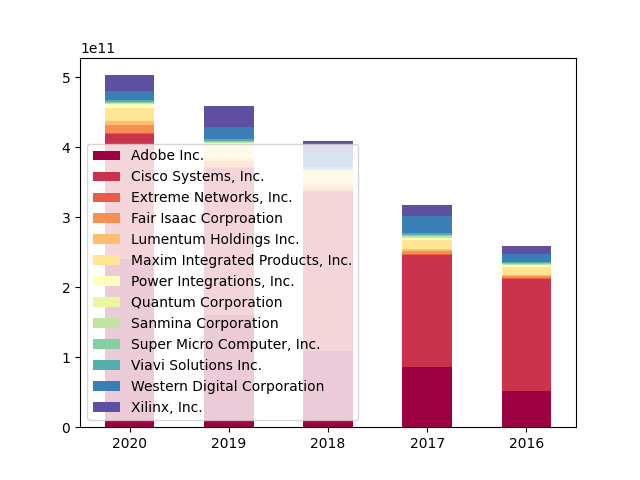
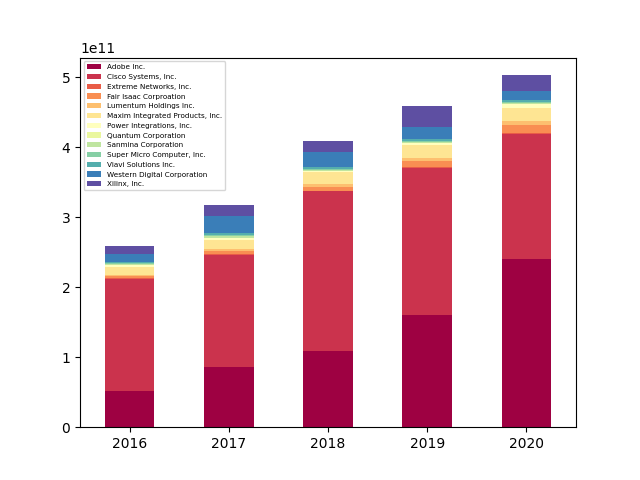
Improve Code + Graph

diff --git a/Examples/Sillicon_Valley_Technology.py b/Examples/Sillicon_Valley_Technology.py
@@ -3,14 +3,13 @@ import FinanceDatabase as fd
 all_technology_companies = fd.select_equities(sector='Technology')
 silicon_valley = fd.search_products(all_technology_companies, query='San Jose', search='city')
 
-# Remove tickers with a dot in it which refer to different markets
 for ticker in silicon_valley.copy():
     if '.' in ticker:
         del silicon_valley[ticker]
 
 import FundamentalAnalysis as fa
 
-API_KEY = "YOUR API KEY HERE"
+API_KEY = "a015eaace08a8d46cfd49c849258a2bd"
 data_set = {}
 for ticker in silicon_valley:
     try:
@@ -20,21 +19,15 @@ for ticker in silicon_valley:
 
 import pandas as pd
 
-years = ['2020', '2019', '2018', '2017', '2016']
-market_cap = pd.DataFrame(columns=years)
+years = ['2016', '2017', '2018', '2019', '2020']
+market_cap = pd.DataFrame(index=years)
 for ticker in data_set:
     try:
         data_years = []
         for year in years:
             data_years.append(data_set[ticker].loc['marketCap'][year])
-        market_cap.loc[ticker] = data_years
+        market_cap[all_technology_companies[ticker]['short_name']] = data_years
     except Exception:
         continue
 
-names = [all_technology_companies[name]['short_name']
-         for name in all_technology_companies
-         if name in market_cap.index]
-market_cap.index = names
-
-market_cap.T.plot.bar(stacked=True, rot=0, colormap='Spectral')
-
+market_cap.plot.bar(stacked=True, rot=0, colormap='Spectral').legend(prop={'size': 5.25})

diff --git a/README.md b/README.md
@@ -160,28 +160,22 @@ for ticker in silicon_valley:
 ````
 Then I make a selection based on the last 5 years and filter by market cap to compare the companies in terms of size
 with each other. This also causes companies that have not been listed for 5 years to be filtered out of my dataset.
+Lastly, I plot the data.
 ````
 import pandas as pd
 
-years = ['2020', '2019', '2018', '2017', '2016']
-market_cap = pd.DataFrame(columns=years)
+years = ['2016', '2017', '2018', '2019', '2020']
+market_cap = pd.DataFrame(index=years)
 for ticker in data_set:
     try:
         data_years = []
         for year in years:
             data_years.append(data_set[ticker].loc['marketCap'][year])
-        market_cap.loc[ticker] = data_years
+        market_cap[all_technology_companies[ticker]['short_name']] = data_years
     except Exception:
         continue
-````
-Lastly, I replace the ticker symbols with the actual names of the companies and then plot the data.
-````
-names = [all_technology_companies[name]['short_name']
-         for name in all_technology_companies
-         if name in market_cap.index]
-market_cap.index = names
-
-market_cap.T.plot.bar(stacked=True, rot=0, colormap='Spectral')
+        
+market_cap.plot.bar(stacked=True, rot=0, colormap='Spectral').legend(prop={'size': 5.25})
 ````
 This results in the graph displayed below which separates the small companies from the large companies. Note that 
 this does not include _all_ technology companies in Silicon Valley because most are not listed or are not included 
